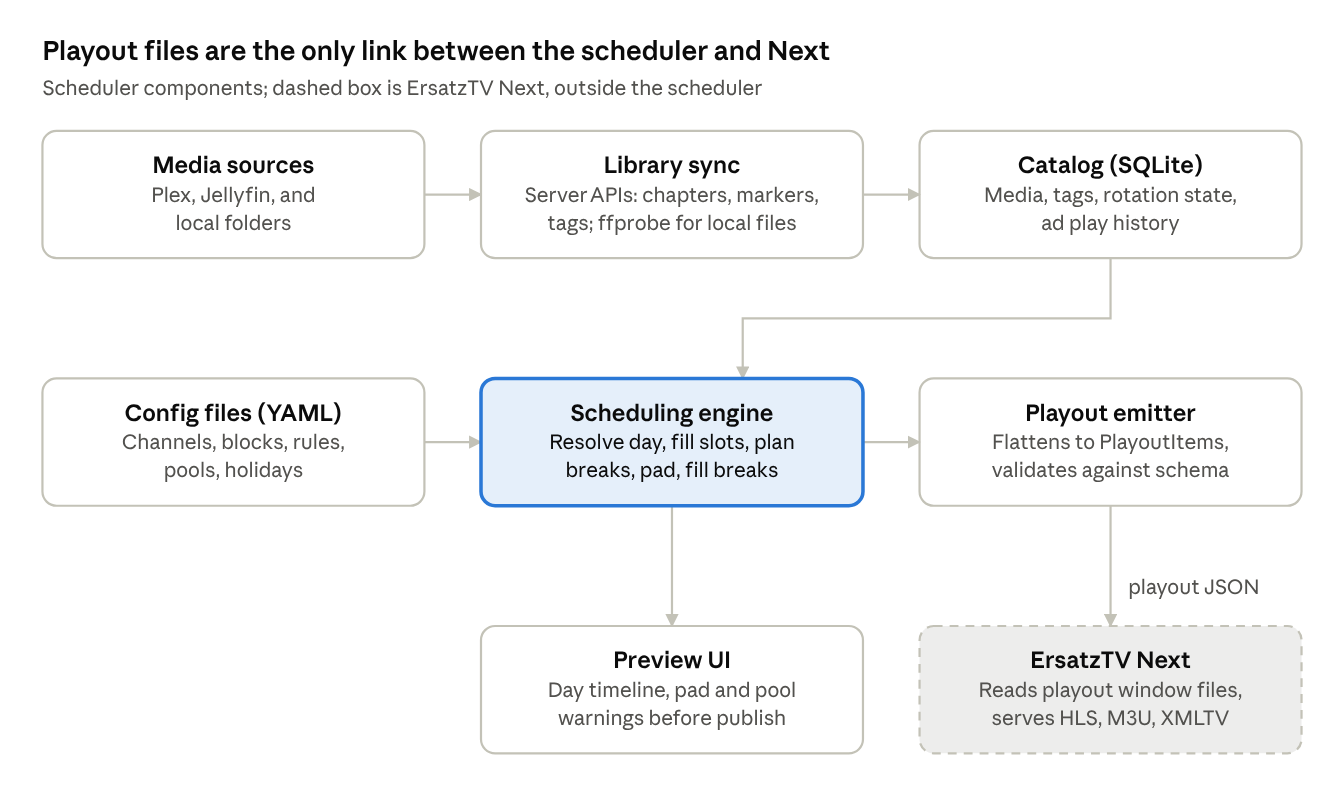
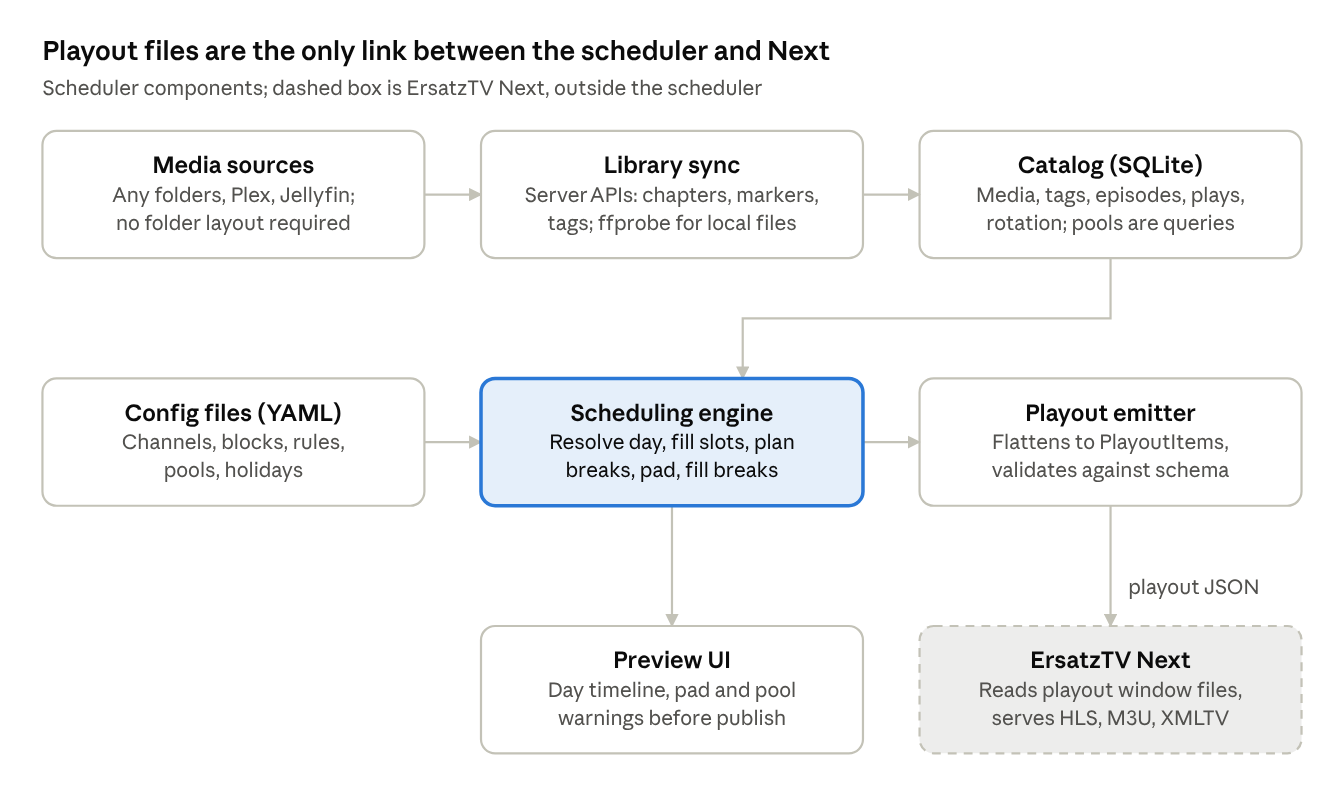
Planning doc: catalog as organizing model, episode order modes
- New section: SQLite catalog replaces folder organization; pools are
  saved queries; filename and container metadata drive classification;
  era matching for commercials
- R7: per-show episode order, chronological or no-repeat shuffle
- Data model, engine, roadmap, and diagrams updated to match
- Schema note corrected to 0.0.5; closed questions ticked

Changed region(s): [[0.7188, 0.2155, 0.9375, 0.3079], [0.0938, 0.2155, 0.25, 0.3079]]

diff --git a/ErsatzTV Next Scheduler Planning Doc.md b/ErsatzTV Next Scheduler Planning Doc.md
@@ -26,7 +26,7 @@ The scheduler is a standalone tool that builds broadcast-style playouts (shows, 
 
 The scheduler's only output is playout JSON files written into each channel's playout folder. [ErsatzTV Next](https://github.com/ErsatzTV/next) is a Rust streaming engine that explicitly leaves scheduling and playout creation to outside tools. It reads playout files and streams them as HLS, M3U, and XMLTV.
 
-**What Next gives the scheduler to work with** (playout schema version 0.0.6):
+**What Next gives the scheduler to work with** (playout schema 0.0.5, the newest the released Next 0.2.0 accepts; engines take any version at or below their own):
 
 | Capability | Schema detail | Why the scheduler cares |
 | --- | --- | --- |
@@ -41,11 +41,11 @@ The scheduler's only output is playout JSON files written into each channel's pl
 
 **Key constraints**
 
-- Playout items have no title or description field. It is unclear how Next builds XMLTV program entries. See Open questions.
+- Playout items have no title or description field. Guide data is a separate XMLTV file per channel that the scheduler also writes.
 - Each file declares a `version`, and Next rejects versions it does not understand. The scheduler must pin a schema version and track Next's changelog.
 - The maintainers will not take scheduling feature requests, so everything in this doc lives in the scheduler.
 
-Sources: [README](https://github.com/ErsatzTV/next), [schema/playout.json](https://github.com/ErsatzTV/next/blob/main/schema/playout.json), [schema/channel_config.json](https://github.com/ErsatzTV/next/blob/main/schema/channel_config.json), [example playout](https://github.com/ErsatzTV/next/blob/main/examples/playout/playout.json).
+Sources: [README](https://github.com/ErsatzTV/next), [schema/playout.json](https://github.com/ErsatzTV/next/blob/main/schema/playout.json), [schema/channel\_config.json](https://github.com/ErsatzTV/next/blob/main/schema/channel_config.json), [example playout](https://github.com/ErsatzTV/next/blob/main/examples/playout/playout.json).
 
 ## Plex and Jellyfin libraries
 
@@ -93,9 +93,32 @@ A Plex label or Jellyfin tag beats every rule, so users tag shows in the tool th
 
 Sources: [Jellyfin media segments](https://jellyfin.org/docs/general/server/metadata/media-segments), [Jellyfin ChapterInfo model](https://typescript-sdk.jellyfin.org/interfaces/generated-client.ChapterInfo.html), [Jellyfin MediaSegmentDto model](https://typescript-sdk.jellyfin.org/interfaces/generated-client.MediaSegmentDto.html), [Plex Media Server API](https://developer.plex.tv/pms/), [Plex marker format in the Infuse forum](https://community.firecore.com/t/add-support-for-plex-skip-intro/19936?page=3), [legacy ErsatzTV Jellyfin integration](https://mintlify.wiki/ErsatzTV/legacy/integrations/jellyfin), [legacy ErsatzTV Plex integration](https://mintlify.wiki/ErsatzTV/legacy/integrations/plex).
 
+## Media catalog: a database instead of folders
+
+Decided Oct 10, 2026: the catalog is the organizing model, not a cache behind folders. A file can live anywhere, belongs to as many pools as its facts allow, and is selected by query. Folders become an optional hint.
+
+**What the scan records.** One SQLite file, built by a scan command over any roots the user names. Each file is probed once and re-probed only when its size or modified time changes.
+
+| Table | Holds | Filled from |
+| --- | --- | --- |
+| media\_items | path, kind (episode, movie, commercial, bumper, filler), duration\_ms, codec facts, source, external\_id, probed\_at | Scan plus ffprobe, or the Plex and Jellyfin APIs |
+| chapters, markers | start and end per chapter; intro, credits, and commercial markers | ffprobe, Plex, Jellyfin |
+| episodes | show, season, episode number, title, original air date | Filename parsing, container tags, server metadata |
+| tags | free labels per item such as taco-bell, 1991, psa, kids | Rules on scan, plus manual tag commands |
+| plays | item, channel, aired\_at, slot context | Every build |
+| rotation | per show and channel: order mode, position, current shuffle cycle | Every build |
+
+**Where facts come from, highest priority first.** Manual tags always win. Then container tags, since ffprobe returns title, show, episode, and date when the ripping tool wrote them. Then filename patterns such as `S04E04`, four-digit years, `1990-10-15` dates, and words like Commercial, PSA, and Promo. Folder names last, as a weak hint. The scan ends with a report of files it could not classify.
+
+**Pools are saved queries.** An ad pool is a filter expression instead of a directory, for example `kind = commercial AND year BETWEEN 1988 AND 1994 AND NOT tag:late-night`. A bumper set is `kind = bumper AND tag:station-id`. The filler takes the pool's candidates, drops anything in `plays` inside the cooldown window, then fits the break.
+
+**Era matching.** Because both the episode and the commercial carry a year, a pool can be relative: commercials from within three years of the airing episode's date. A 1991 TNG episode and a 1995 Simpsons episode pull different spots from the same library with no sorting.
+
+**Costs.** Filename parsing is heuristic, so the scan report and a quick tag command matter from day one. The database is the thing to back up, not just a cache. Changing a file's path moves it, not its identity, because items are keyed by a content hash of the first and last megabyte plus size.
+
 ## Feature requirements
 
-Six capabilities define v1. Each one names its acceptance test so the engine can be checked against it.
+Seven capabilities define v1. Each one names its acceptance test so the engine can be checked against it.
 
 | # | Requirement | Behavior | Acceptance test |
 | --- | --- | --- | --- |
@@ -105,6 +128,7 @@ Six capabilities define v1. Each one names its acceptance test so the engine can
 | R4 | Schedule by time of day, time of year, or holiday | Day-parts such as morning cartoons, prime time, and late night. Seasonal ranges such as summer or the school year. Holidays as fixed dates, like Dec 25, or rules, like the fourth Thursday of November. The most specific matching rule wins. | On Dec 24 the 8pm slot airs the Christmas block. The rest of December airs the normal prime-time block. |
 | R5 | Commercials by show type | Show types such as kids, sitcom, anime, and late night each map to one or more ad pools. Ads carry tags too, so a kids show never pulls a late-night ad. | Across a week of generated playouts, no ad tagged late-night appears in a kids show. |
 | R6 | Pad to minute boundaries | A slot's end snaps to the next 30 or 60 minutes, or to the next 5 or 10 minutes. The gap is filled with ads, bumpers, and filler spread across the show's breaks. | A 22:10 episode in a 30-minute slot gets 7:50 of breaks and the next show starts at :00 or :30 exactly. |
+| R7 | Configurable episode order | Per show and channel the user picks chronological or shuffle. Chronological follows original air date, falling back to season and episode number, and wraps to the start when the show runs out. Shuffle draws without replacement: every episode airs once before any repeats, then a new cycle is shuffled. Position survives rebuilds and restarts. | A 178-episode show in shuffle mode airs 178 distinct episodes before the first repeat. Switching to chronological mid-run resumes from the next unaired episode in date order. |
 
 **Supporting requirements**
 
@@ -119,19 +143,20 @@ Everything the engine schedules is a media item with tags. Rules decide which ta
 
 | Entity | What it is | Key fields |
 | --- | --- | --- |
-| MediaItem | One playable file: episode, movie, ad, bumper, or filler | source, external_id, path, kind, duration_ms, chapters[], markers[], tags[], probe data (codecs, streams) |
-| Show | A series or collection of MediaItems | title, show_type, episode order (sequential or shuffle), rotation state |
+| MediaItem | One playable file: episode, movie, ad, bumper, or filler | content\_hash, path, kind, duration\_ms, chapters\[\], markers\[\], tags\[\], year, probe data (codecs, streams), source, external\_id |
+| Show | A series or collection of MediaItems | title, show\_type, order mode (chronological or shuffle), per-channel rotation state: next position for chronological, remaining episode list for the current shuffle cycle |
 | ShowType | The audience category | name (kids, sitcom, anime, late night), default ad pools, default bumper sets |
-| AdPool | A weighted set of commercials | name, tag filter or explicit list, weight per item, cooldown minutes |
+| AdPool | A weighted set of commercials | name, filter query over the catalog (kind, tags, year range, or relative era), weight per item, cooldown minutes |
 | BumperSet | Bumpers grouped by role | role (intro, outro, break-in, break-out, station ID), tag filter, theme |
 | FillerPool | Short clips used to close the last few seconds | items, min and max length, lavfi slate as last resort |
 | BreakPolicy | How a show's breaks are shaped | use chapters (yes/no), max mid-breaks, min act length, pre-roll, post-roll, bumper bracketing |
 | PaddingPolicy | How the slot end snaps | mode (30, 60, next 5, next 10, none), max pad, min pad |
-| Block | A reusable run of slots, like "Saturday morning cartoons" | slots[] with show or show-type picks, BreakPolicy and PaddingPolicy overrides |
+| Block | A reusable run of slots, like "Saturday morning cartoons" | slots\[\] with show or show-type picks, BreakPolicy and PaddingPolicy overrides |
 | Calendar rule | When a block airs | channel, days of week, time range, date range or season, holiday ref, priority |
 | Holiday | A named date | fixed date (Dec 25), rule (4th Thu Nov), or offset (Easter + 0), plus lead-in days |
 | Channel | One ErsatzTV Next channel | number, playout folder path, default policies, graphics (network bug), build horizon |
 | MediaSource | A Plex server, Jellyfin server, or local folder root | kind, URL, token reference, enabled libraries, path mapping rules, playback mode (direct path or HTTP), last sync time |
+| Play | One airing of one item, recorded by every build | item, channel, aired\_at, break or slot it filled; drives cooldowns, no-repeat rules, and shuffle cycles |
 
 **Policy inheritance:** Channel defaults, then ShowType, then Show, then Block slot. The most specific setting wins. A single setting like "late-night shows get 4 breaks" lives on the ShowType, not on every show.
 
@@ -142,7 +167,7 @@ Everything the engine schedules is a media item with tags. Rules decide which ta
 The engine builds a channel one day at a time in five passes, then writes a playout file. Each pass only adds detail, so a failure points at one stage.
 
 1. **Resolve the day.** For each channel and date, collect calendar rules that match: holiday, then date range or season, then day of week, then the channel default. Higher priority wins per time range, and the result is a list of Blocks with start times.
-2. **Fill slots.** For each slot in each Block, pick the show or episode. Advance rotation state and apply show-type filters. Record the episode's content length.
+2. **Fill slots.** For each slot in each Block, pick the show or episode. Pick by the show's order mode: the next episode by air date in chronological mode, or the next draw from the current no-repeat cycle in shuffle mode. Advance rotation state and apply show-type filters. Record the episode's content length.
 3. **Plan breaks.** Turn each episode into acts. Choose cut points from chapter markers that respect min act length and max breaks. Without chapters, fall back per BreakPolicy. Add pre-roll and post-roll break positions.
 4. **Compute the pad.** Snap the slot end to the PaddingPolicy boundary and get the total break time to fill. Split it across break positions, weighted so mid-show breaks get more than pre-roll.
 5. **Fill breaks.** For each break, wrap with bumpers, then pick ads from the show type's pools until the break's budget is nearly used. Close any remainder with filler, then a lavfi slate for the last frames.
@@ -175,10 +200,10 @@ The scanner fills the catalog once and refreshes on change. The engine reads the
 
 | Decision | Recommendation | Reason |
 | --- | --- | --- |
-| Language | Rust | Next's `ersatztv-playout` crate already models the playout JSON. Reusing it keeps the scheduler in sync with schema changes. |
+| Language | C# / .NET 10 | Decided Oct 10, 2026: C# on .NET 10. It ships as self-contained single-file binaries for Windows, Linux, and macOS plus a Docker image, the same way Next and legacy ErsatzTV ship. Legacy ErsatzTV is C#, so its community and its Plex and Jellyfin code are familiar. Rust was the first pick but needs a toolchain install and slows the web UI later. |
 | Chapter and duration extraction | `ffprobe -show_chapters -show_format -show_streams` | Used for local folders and for Plex or Jellyfin items missing chapters. Plex and Jellyfin items take chapters and markers from the server API first. Results are cached in the catalog and passed to Next as a probe hint. |
 | Config format | YAML files in a folder | Readable, diffable, and easy to keep in git. The web UI edits the same files later. |
-| State storage | SQLite | Holds the media catalog, episode rotation position, and recent ad plays for no-repeat rules. |
+| State storage | SQLite | The catalog is the organizing model: media facts, tags, parsed episode data, plays, and rotation state. Pools are queries over it. One file, easy to back up, no server to run. |
 | Build trigger | Nightly job plus on-demand rebuild | Keeps a rolling horizon of playout files, such as 3 days ahead. |
 | Output | One playout file per channel per day, named per the schema | Matches Next's lookup by current time. Writing to a temp name and renaming keeps Next from reading a half-written file. |
 
@@ -194,8 +219,8 @@ No dates are set yet. Each phase starts only when the previous exit gate passes.
 
 **Open questions**
 
-- [ ] Where does Next get XMLTV titles? Playout items have no title field in schema 0.0.6. Ask on the ErsatzTV Matrix or Discord, or read the `ersatztv` crate.
-- [ ] Where do the values for Next's placeholder tokens in HTTP source URLs come from, such as environment variables or a secrets file? This decides how Plex and Jellyfin tokens are stored for HTTP playback.
+- [x] Closed Oct 10, 2026: Next reads guide data from one XMLTV file per channel, named by the channel's tvg\_id, in the lineup's xmltv folder. It copies the programme elements as-is, so the scheduler writes titles, descriptions, categories, and episode numbers itself.
+- [x] Closed Oct 10, 2026: Next expands placeholder tokens in HTTP source URLs and headers from environment variables at playback. Plex and Jellyfin tokens for HTTP playback go in Next's environment, never in playout files.
 - [ ] How much overlap with legacy ErsatzTV is acceptable? Legacy ErsatzTV already has filler and mid-roll features. Decide whether this tool replaces it or targets users who run Next standalone.
 - [ ] How long a window per playout file: one day, or a rolling 48 hours? This affects how quickly rule edits reach the air.
 - [ ] Should ad picks happen at build time, or at air time through a dynamic source? Build time is simpler and previewable.
